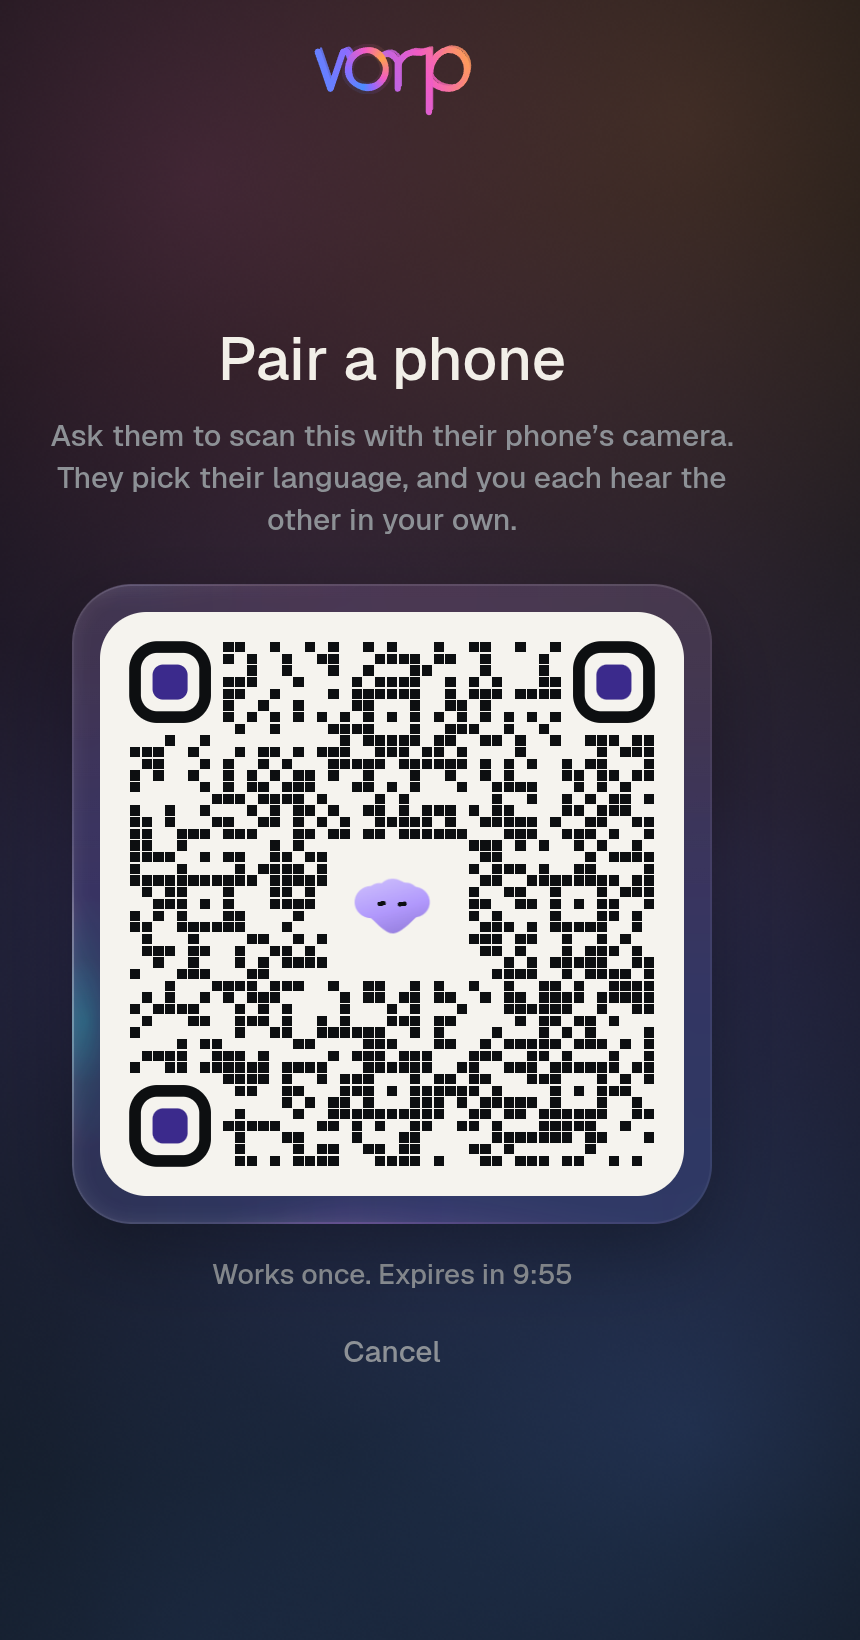
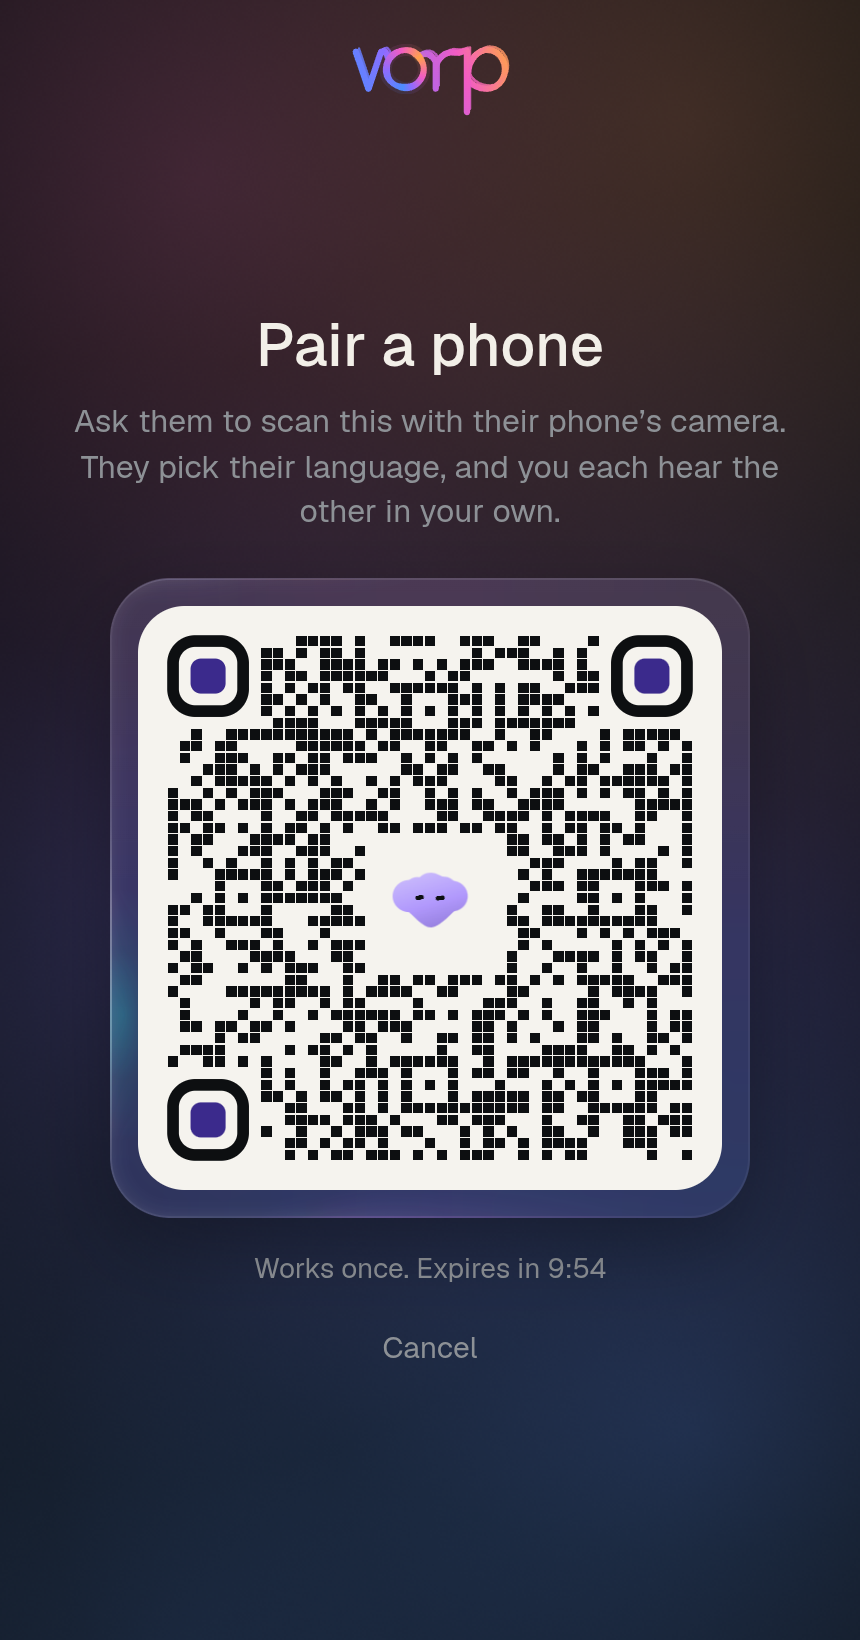
Centre the host's pair page: drop an old pill style that shared its class

Changed region(s): [[0.0605, 0.1866, 0.907, 0.8396], [0.3628, 0.0311, 0.6047, 0.0622]]

diff --git a/src/ui/dom/style.ts b/src/ui/dom/style.ts
@@ -230,11 +230,6 @@ ${[...Array(7)].map((_, i) => `.vp-panel > .vp-row:nth-child(${i + 2}) { animati
 
 /* Talk */
 .vp-talk { position: relative; height: 100%; max-width: 640px; margin: 0 auto; padding: env(safe-area-inset-top) 20px 0; display: flex; flex-direction: column; }
-.vp-pair {
-  display: inline-flex; align-items: center; gap: 10px; height: 40px; padding: 0 16px; border-radius: 14px;
-  font-size: 15px; font-weight: 500; --frost: var(--frost-thin);
-}
-.vp-pair svg { color: var(--mute); }
 .vp-stage { display: flex; flex-direction: column; align-items: center; gap: 2px; margin-top: 4px; flex: none; }
 .vp-ring { position: relative; }
 .vp-ring canvas { position: absolute; inset: 0; }
@@ -432,7 +427,7 @@ ${[...Array(7)].map((_, i) => `.vp-panel > .vp-row:nth-child(${i + 2}) { animati
 .vp-pair-joined h1 { margin-top: 10px; }
 .vp-pair-lang { font-size: 19px; }
 .vp-pair-lang strong { font-weight: 500; color: var(--them); }
-.vp-guest-bar { justify-content: center; }
+.vp-pair-bar, .vp-guest-bar { justify-content: center; }
 .vp-guest-hero { display: flex; flex-direction: column; align-items: center; gap: 12px; width: 100%; max-width: 420px; }
 .vp-guest-hero h1 { margin-top: 8px; font-size: clamp(26px, 7vw, 34px); }
 .vp-guest-body { max-width: 340px; text-wrap: pretty; }

diff --git a/src/features/pair/dom/PairHost.tsx b/src/features/pair/dom/PairHost.tsx
@@ -54,7 +54,7 @@ export function PairHost({
 
   return (
     <div className="vp-page vp-pair">
-      <header className="vp-bar">
+      <header className="vp-bar vp-pair-bar">
         <Mark light={light} />
       </header>
       <Presence id={pair.view} exitMs={200} className="vp-pair-main">
